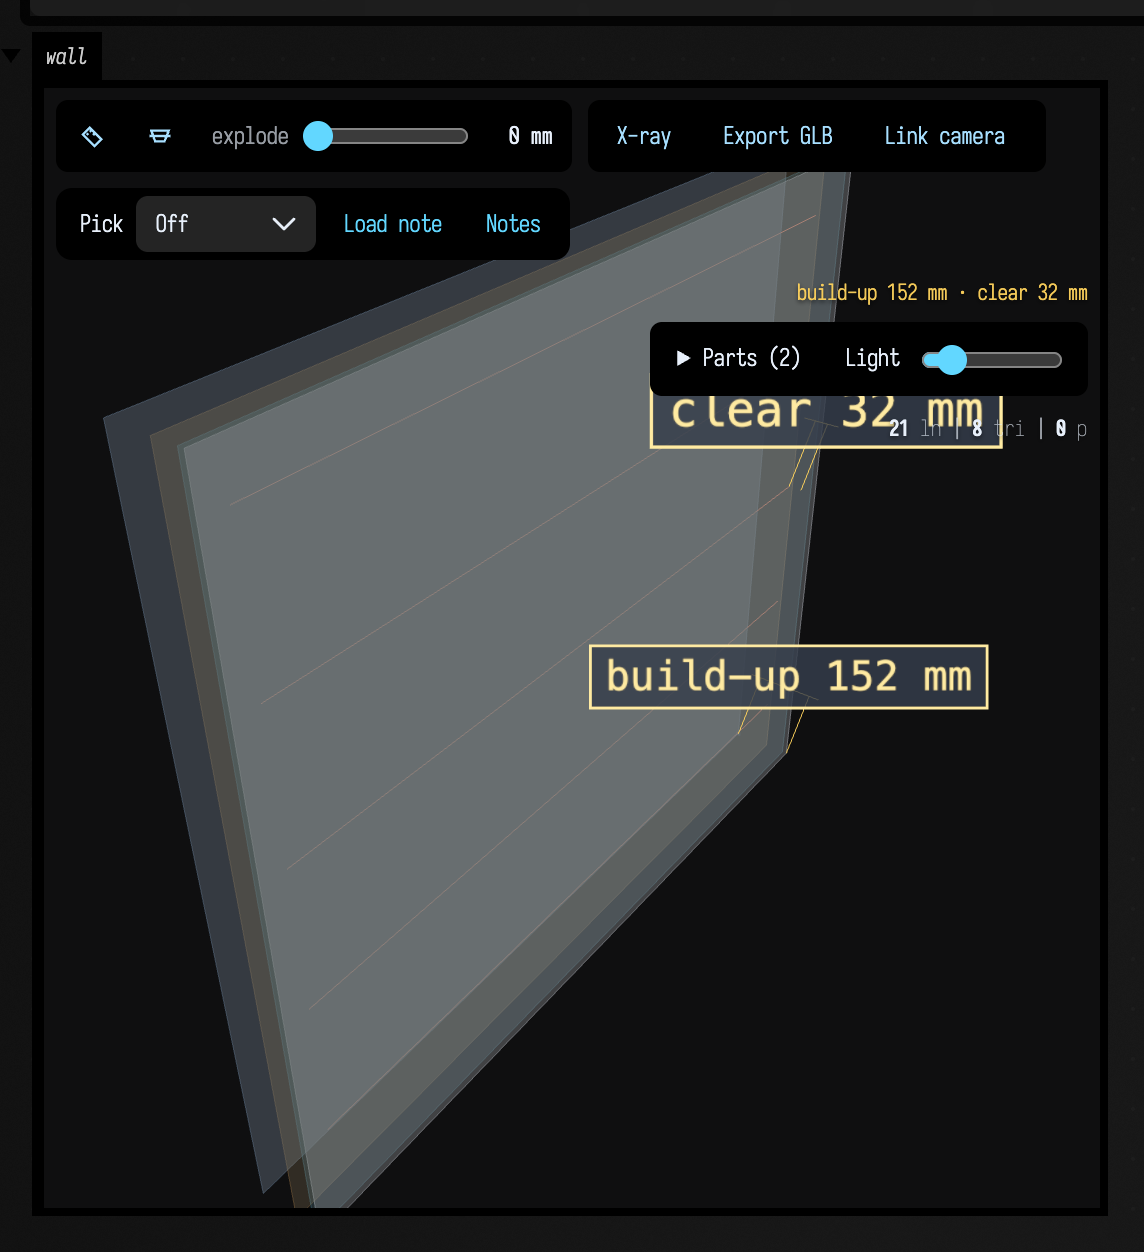
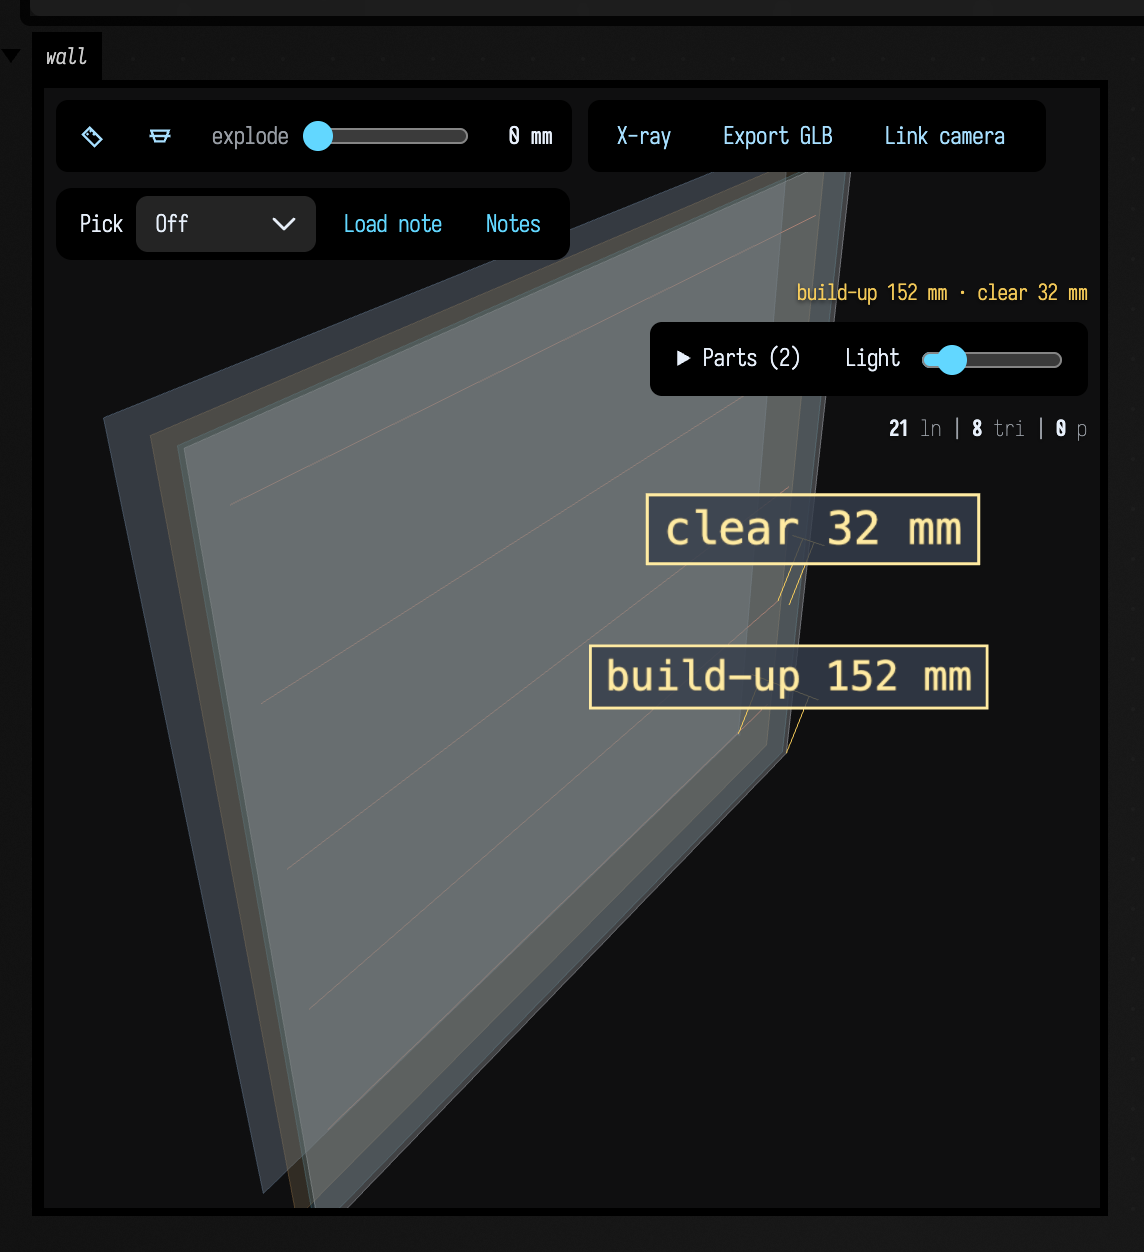
docs(fline_examples): keep the clearance label off the inspector panel; drop duplicate image

Changed region(s): [[0.5507, 0.3115, 0.8872, 0.4673]]

diff --git a/public/docs/assets/agent_transcripts/three_inspector_wall/three-inspector-wall_code_.kt b/public/docs/assets/agent_transcripts/three_inspector_wall/three-inspector-wall_code_.kt
@@ -81,10 +81,10 @@ val view = threeInspect(
             ThreeMeasureElement.face(wall[3]),
             "build-up ",
         ),
-        // the clearance from a conduit to the inside of the lining: 152 - 120 = 32,
+        // the clearance from the second conduit to the inside of the lining: 152 - 120 = 32,
         // which is written down nowhere in the geometry
         ThreeMeasurement(
-            ThreeMeasureElement.segment(120.0, 840.0, 80.0, 120.0, 840.0, 1720.0),
+            ThreeMeasureElement.segment(120.0, 520.0, 80.0, 120.0, 520.0, 1720.0),
             ThreeMeasureElement.face(wall[3]),
             "clear ",
         ),

diff --git a/public/docs/fline_examples.md b/public/docs/fline_examples.md
@@ -519,10 +519,10 @@ val view = threeInspect(
             ThreeMeasureElement.face(wall[3]),
             "build-up ",
         ),
-        // the clearance from a conduit to the inside of the lining: 152 - 120 = 32,
+        // the clearance from the second conduit to the inside of the lining: 152 - 120 = 32,
         // which is written down nowhere in the geometry
         ThreeMeasurement(
-            ThreeMeasureElement.segment(120.0, 840.0, 80.0, 120.0, 840.0, 1720.0),
+            ThreeMeasureElement.segment(120.0, 520.0, 80.0, 120.0, 520.0, 1720.0),
             ThreeMeasureElement.face(wall[3]),
             "clear ",
         ),
@@ -545,8 +545,6 @@ view.clearMeasurements()
 println("wall: ${view.inspector().groups.size} assembly groups, ${view.inspector().measurements.size} dimensions")
 println("drag the explode slider; press the ruler and click two things")
 ```
-
-![The three-inspector demo document, opened](assets/three_inspector_demo/opened.png)
 
 ### Callbacks: `onClick` and `hoverColor`
 

diff --git a/public/docs/assets/agent_transcripts/three_inspector_wall/document.md b/public/docs/assets/agent_transcripts/three_inspector_wall/document.md
@@ -131,10 +131,10 @@ val view = threeInspect(
             ThreeMeasureElement.face(wall[3]),
             "build-up ",
         ),
-        // the clearance from a conduit to the inside of the lining: 152 - 120 = 32,
+        // the clearance from the second conduit to the inside of the lining: 152 - 120 = 32,
         // which is written down nowhere in the geometry
         ThreeMeasurement(
-            ThreeMeasureElement.segment(120.0, 840.0, 80.0, 120.0, 840.0, 1720.0),
+            ThreeMeasureElement.segment(120.0, 520.0, 80.0, 120.0, 520.0, 1720.0),
             ThreeMeasureElement.face(wall[3]),
             "clear ",
         ),
